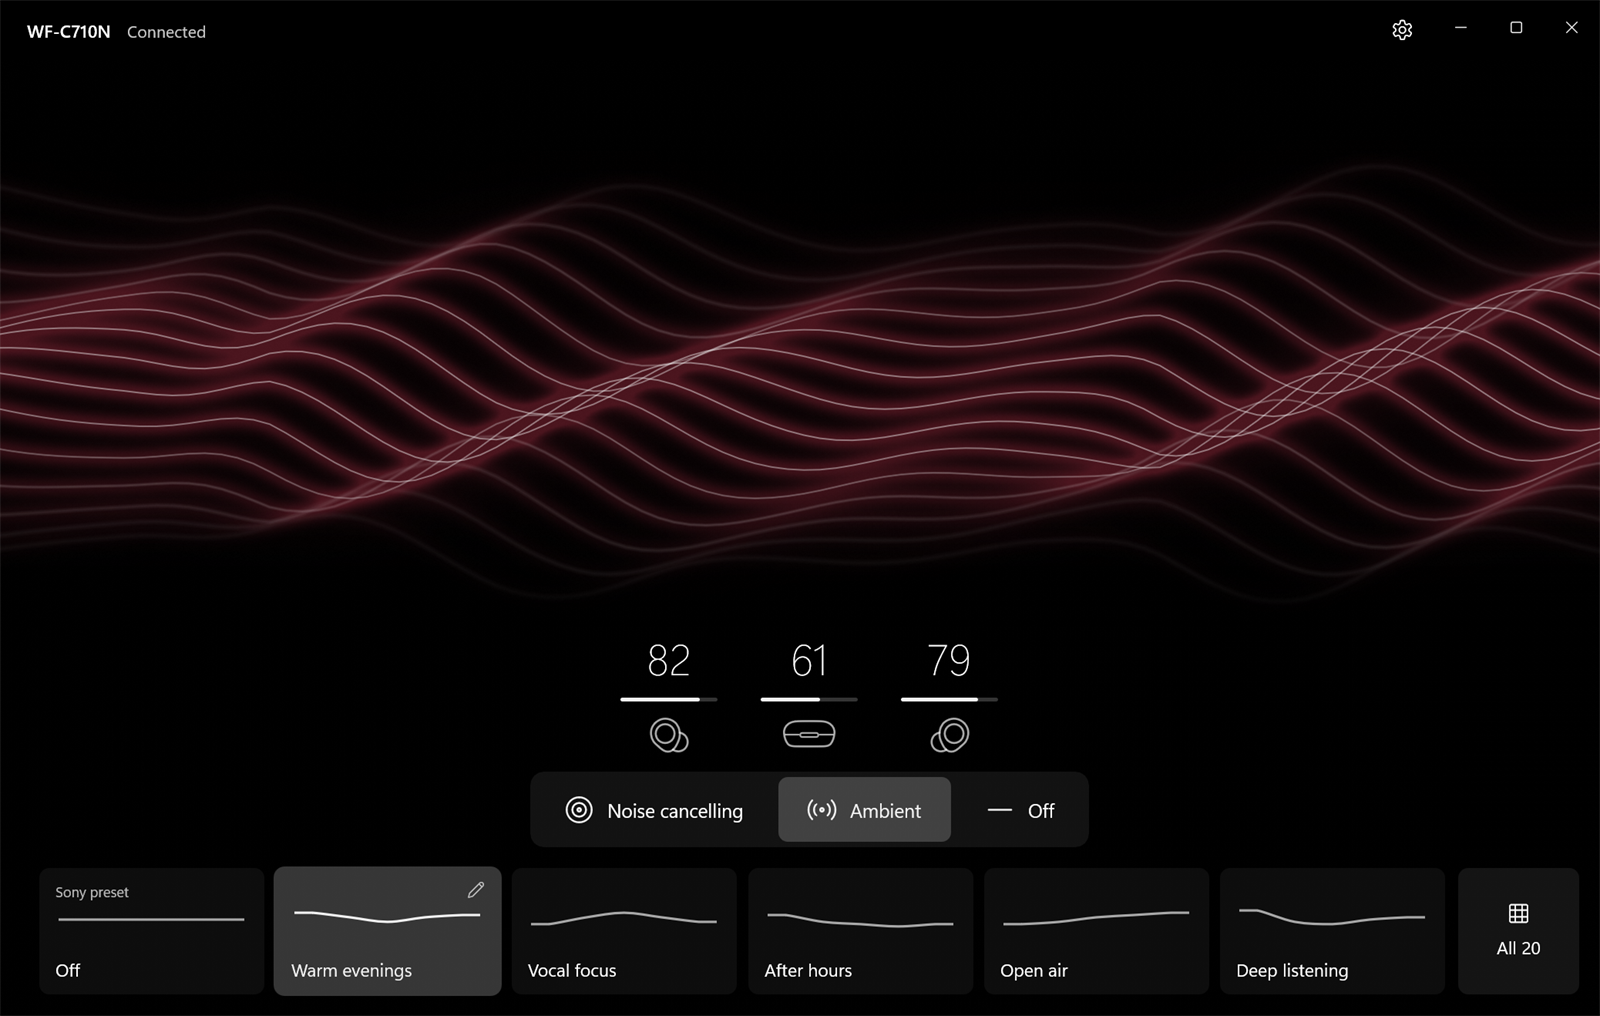
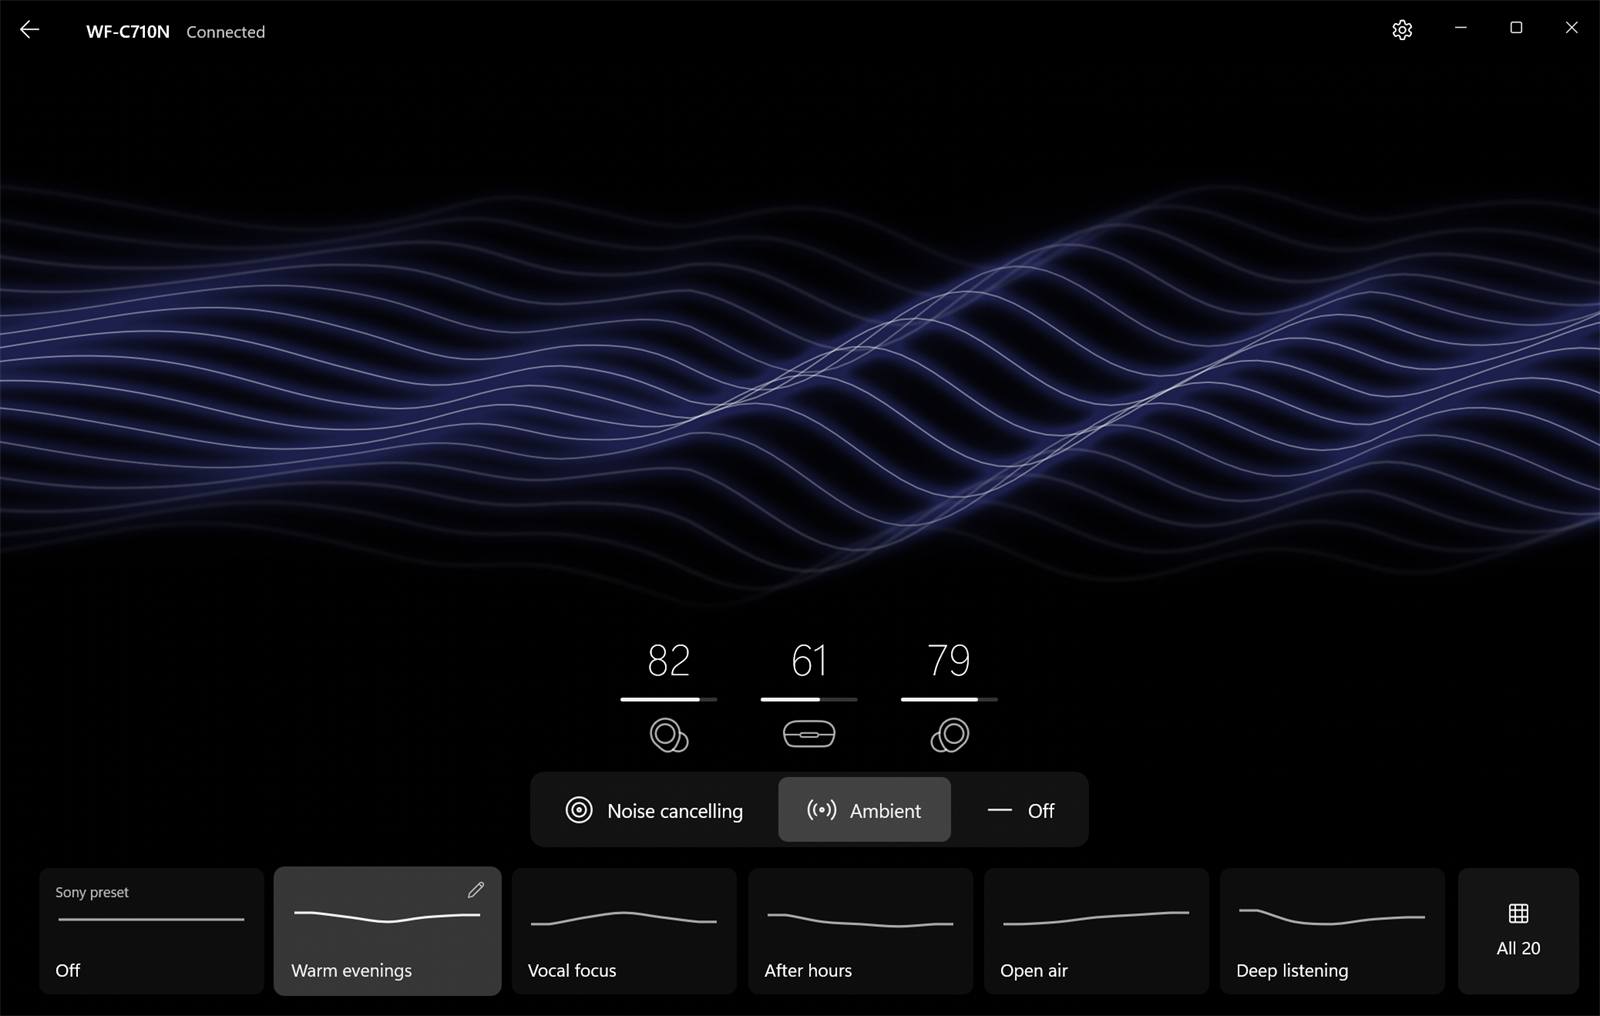
README for 0.10: Devices, several devices, a widget per device
A Devices screenshot and a new main-screen one (both from the app with sample data), the Settings image without its old bottom row, a What's new section, install and update notes for 0.9.0 users, and what Request support and Report a problem send. The README capture now includes the Devices screen.

Changed region(s): [[0.0, 0.1831, 1.0, 0.5797], [0.0312, 0.0, 0.1562, 0.061]]

diff --git a/ui/main.cpp b/ui/main.cpp
@@ -3137,8 +3137,16 @@ struct DuskApp : ApplicationT<DuskApp, Markup::IXamlMetadataProvider> {
                 // composition, so the swap chains are in it), with demo music and sample batteries.
                 set_battery(L"BatteryLeft",82,true);set_battery(L"BatteryRight",79,true);set_battery(L"BatteryCase",61,true);set_controls_live(true,false);
                 animations=true;demo_music=true;glow_level=1;last_tick=precise_ms();
-                navigate(L"Main");set_noise(dusk::Noise::Ambient);
+                // Devices (0.10): the earbuds, and a Sony model not supported yet. Neutral names only: these are public.
+                device_list.clear();
+                device_list.push_back({"F0:00:00:00:00:01", L"WF-C710N", L"WF-C710N", L"buds", L"ready", L"", true, true, true, {82, 79, 61}}); device_list.back().noise = 2; device_list.back().eq = L"Warm evenings";
+                device_list.push_back({"F0:00:00:00:00:03", L"WH-1000XM5", L"WH-1000XM5", L"buds", L"idle", L"WH-1000XM5", false, true, false, {-1, -1, -1}});
+                devices_known = true; rebuild_devices();
+                navigate(L"Devices");set_noise(dusk::Noise::Ambient);
                 for(int i=0;i<150;++i){tick();timer.Stop();unpace();co_await resume_after(std::chrono::milliseconds(16));co_await ui;}
+                capture_window(folder/L"readme-devices.bmp");
+                navigate(L"Main");
+                for(int i=0;i<60;++i){tick();timer.Stop();unpace();co_await resume_after(std::chrono::milliseconds(16));co_await ui;}
                 capture_window(folder/L"readme-main.bmp");
                 open_drawer();for(int i=0;i<70;++i){tick();timer.Stop();unpace();co_await resume_after(std::chrono::milliseconds(16));co_await ui;}
                 capture_window(folder/L"readme-library.bmp");
@@ -3153,7 +3161,8 @@ struct DuskApp : ApplicationT<DuskApp, Markup::IXamlMetadataProvider> {
                 navigate(L"Settings");root.UpdateLayout();layout_settings();
                 for(int i=0;i<30;++i){tick();timer.Stop();unpace();co_await resume_after(std::chrono::milliseconds(16));co_await ui;}
                 capture_window(folder/L"readme-settings.bmp");
-                // 0.8.0 review: the App and widget rows (Check now, Wave), then the Wave preview.
+                // The App rows (Check now, Wave), now on Devices, then the Wave preview.
+                navigate(L"Devices");root.UpdateLayout();
                 {auto app=get<Button>(L"AppButton");app.Flyout().ShowAt(app);
                  for(int i=0;i<30;++i){tick();timer.Stop();unpace();co_await resume_after(std::chrono::milliseconds(16));co_await ui;}
                  capture_window(folder/L"review-settings-app.bmp");

diff --git a/README.md b/README.md
@@ -1,12 +1,27 @@
 # Bandwave
 
 **Bandwave** is a Windows 11 app and Win + W widget for Sony earbuds and headphones, starting with
-the **WF-C710N**. Check
-the batteries, switch noise cancelling and ambient sound, and shape the sound with your own EQs,
-without reaching for your phone.
+the **WF-C710N**. Check the batteries, switch noise cancelling and ambient sound, and shape the
+sound with your own EQs, without reaching for your phone.
 
 Bandwave was called Sound Connect until 0.9.0. Updating keeps your EQs and settings; add the
 widget again from Win + W afterwards.
+
+![Bandwave's Devices screen: a glass tile for the WF-C710N showing Connected, Ambient · Warm evenings and its batteries, and a tile for a WH-1000XM5 marked Not supported yet with Request support, over softly glowing sound lines](docs/images/devices.png)
+
+## What's new in 0.10
+
+- **Devices:** Bandwave opens on a screen listing every Sony device paired with your PC, each
+  shown as Connected or Not connected the way Windows has it, with its batteries and what's
+  playing (or when it was last seen). Open one to get its own screen.
+- **More than one device:** several Sony devices can be controlled at once. Each has its own
+  settings and its own EQ library.
+- **Request support:** a Sony device Bandwave doesn't support yet is listed anyway, with a link
+  that opens a GitHub issue for that model.
+- **A widget per device:** the widget follows the device you last opened. Add another and choose
+  **Customize** in its menu to keep it on one device.
+- **App, Widget and About** sit at the bottom of the Devices screen; a device's Settings holds only
+  its own settings.
 
 ![Bandwave's main screen with music playing: fifteen glowing sound lines in the music's colour above the battery levels, the three sound modes and six EQs](docs/images/main.png)
 
@@ -18,7 +33,7 @@ widget again from Win + W afterwards.
   the tray Bandwave draws nothing at all.
 - **Fits your music:** the lines and the colour learn what you usually listen to, so quiet acoustic
   tracks move them as much as loud electronic ones, and every colour gets its turn: blue when the
-  vocals lead, red when the bass does. Choose **Calm**, **Balanced** or **Lively** in App, on the
+  vocals lead, red when the bass does. Choose **Calm**, **Balanced** or **Lively** in **App** on the
   Devices screen.
 - **See everything at a glance:** left, right and case batteries, and whether each earbud is
   connected. While the earbuds aren't connected, the controls and the EQ library rest, so nothing
@@ -47,13 +62,14 @@ widget again from Win + W afterwards.
   page fits smaller windows.
 - **Use the widget:** batteries, sound mode and your six main EQs in Win + W, without opening
   the app. It shows the device you last opened; add a second widget and choose **Customize** in
-  its menu to keep it on one device.
-- **Several Sony devices:** the app opens on **Devices**, which lists every Sony device paired
-  with your PC as Connected or Not connected, the way Windows has it. Each supported device has
-  its own screen, settings and EQs. Pairing, connecting and forgetting stay in Windows Bluetooth
-  settings. A Sony device Bandwave doesn't support yet is listed with **Request support**, which
-  opens a GitHub issue for that model.
-- **Start with Windows and keep it in the tray,** if you like. Both are in App, on the
+  its menu to keep it on one device. **Widget** on the Devices screen says what Windows needs
+  before it shows the widget.
+- **Several Sony devices:** each supported device has its own screen, settings and EQs.
+  Pairing, connecting and forgetting stay in Windows Bluetooth settings: Bandwave only shows what
+  Windows reports, and never connects or disconnects anything itself.
+- **Let Sony's phone app connect:** Bandwave can step aside 15 seconds after its window and
+  widget close, so the phone app can take the controls. Turn it on in **App**.
+- **Start with Windows and keep it in the tray,** if you like. Both are in **App** on the
   Devices screen.
 
 | The library | Editing an EQ | Hold to compare |
@@ -68,15 +84,17 @@ widget again from Win + W afterwards.
 
 1. Turn on **Developer Mode** in Windows Settings > System > For developers. Windows only shows
    widgets from apps outside the Microsoft Store when it's on.
-2. Pair your WF-C710N in Windows Bluetooth settings.
-3. Download **EarbudControls-Setup-0.9.0.exe** from
+2. Pair your Sony earbuds in Windows Bluetooth settings.
+3. Download **EarbudControls-Setup-0.10.4.exe** from
    [Releases](https://github.com/KanuTomer/Bandwave/releases) and run it. It installs the
    app and the widget together.
 4. Open **Bandwave** from Start. To add the widget, open Win + W, choose Add widgets, then
-   **Bandwave**.
+   **Bandwave**. If it isn't listed, **Widget** on the Devices screen says what's missing.
 
 **Requirements:** Windows 11 x64, version 22H2 or newer, with the Windows Web Experience Pack
-(for Widgets). The WF-C710N is the only supported model so far, and ARM64 PCs aren't supported.
+(for Widgets). The WF-C710N is the only supported model so far: other Sony devices are listed with
+**Request support**, and a model is added once it can be tested on the real device. ARM64 PCs
+aren't supported.
 
 **About the certificate:** Bandwave is signed with the project's own certificate. The
 first install asks for administrator permission once, only to trust that certificate; nothing
@@ -86,6 +104,10 @@ Setup also installs Microsoft's Windows App Runtime if your PC doesn't already h
 
 ## Updates
 
+**Updating from 0.9.0:** 0.9.0 can't update itself to 0.10, because the project's GitHub address
+changed. Download and run the 0.10 setup once; your EQs and settings are kept and copied to the
+device they belong to. Later versions update as usual.
+
 Bandwave checks for a new version once a day. When one is out, choose **Update** in the
 title bar: it downloads, checks the file's checksum and signature, and updates in place,
 keeping your EQs and settings. To look straight away, choose **Check now** in App on the Devices
@@ -93,6 +115,10 @@ screen, where you can also turn the daily check off. Running a newer setup yours
 same way. A copy from the Microsoft Store is updated by the Store instead.
 
 ## Good to know
+
+Bandwave never connects, disconnects or switches audio between devices: Windows does. If a device
+is connected but its controls are held by Sony's phone app, Bandwave says so and picks them up
+again by itself.
 
 Changing **Connect to two devices at once** makes the earbuds drop every connection and reconnect;
 your phone may need reconnecting from its Bluetooth settings. Bandwave asks before it
@@ -107,9 +133,11 @@ changes your Bluetooth pairing or anything stored on the earbuds.
 ## Privacy
 
 Bandwave has no account and sends no telemetry. Your EQs and settings stay on your PC, in
-`%LOCALAPPDATA%\Earbud Controls`. To fit the waves to your music it keeps 14 numbers there (how
+`%LOCALAPPDATA%\Earbud Controls`, one folder per device. To fit the waves to your music it keeps 14 numbers there (how
 loud each frequency range usually is), never what you played. The only network request is the
-update check to this project's GitHub Releases, which sends nothing about you.
+update check to this project's GitHub Releases, which sends nothing about you. **Request support**
+and **Report a problem** only open a GitHub page in your browser when you click them; the only
+thing they fill in is a model name.
 
 ## Build from source
 
